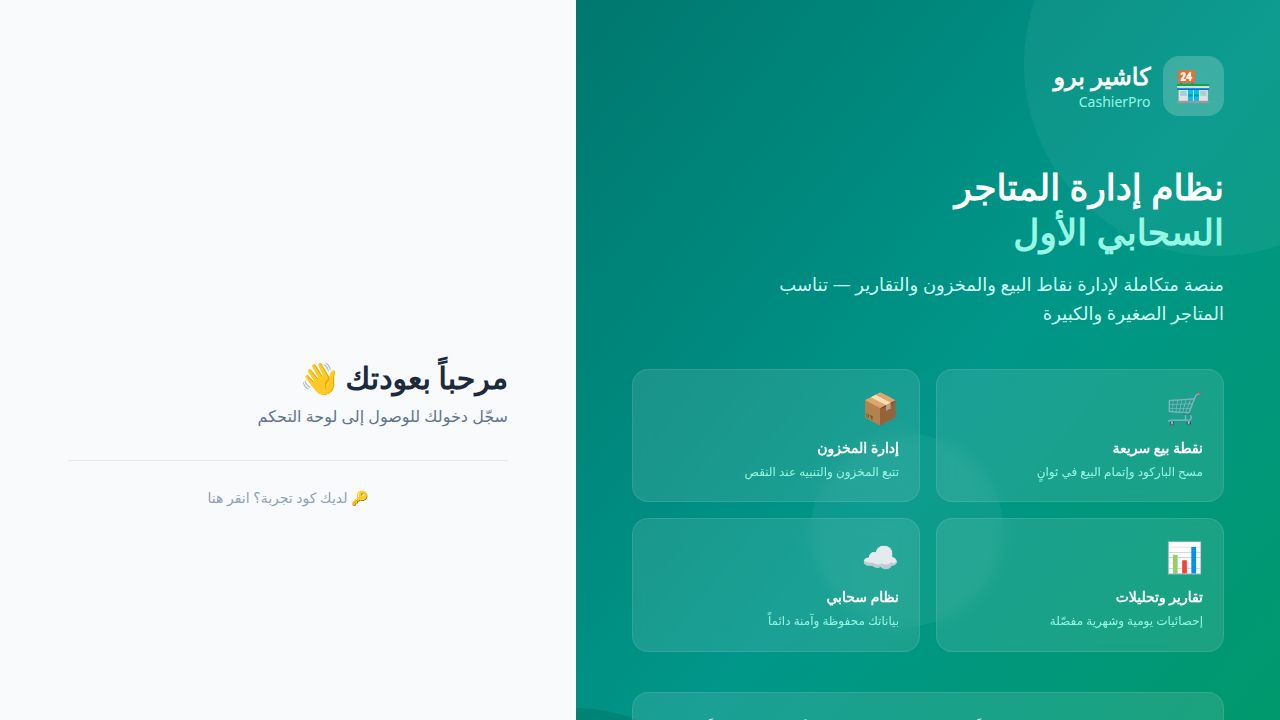
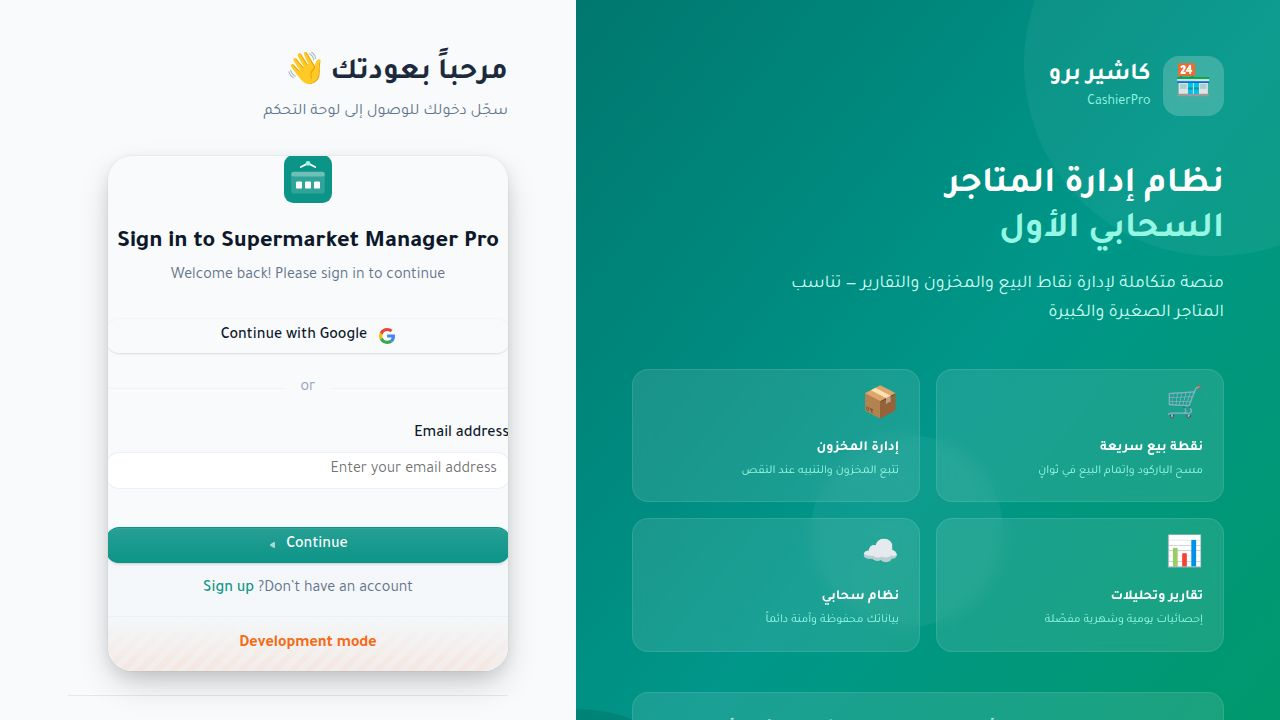
Task: Add Bengali language switcher to the POS interface
Bengali (বাংলা) translations and i18n wiring were already present in the codebase.
Two files were improved to ensure Bengali is prominent, correctly selected, and persists properly:

1. LanguageSwitcher.tsx — enhanced dropdown UX + hardened code matching
   - Added a `Check` icon (lucide-react) next to the active language entry so the
     current selection is visually obvious (previously only font weight/color changed).
   - Introduced `resolveBaseCode()` helper that normalises regional language codes
     (e.g. "en-US" → "en") using `i18n.resolvedLanguage` before looking up LANGUAGES.
     Prevents the dropdown falling back to wrong defaults when a regional locale is
     detected by the browser.
   - Widened dropdown from w-40 to w-44 for the check icon to fit cleanly.
   - Bengali (বাংলা) now appears in the list with a clear active-state indicator.

2. i18n/index.ts — apply persisted language attributes on startup
   - Added `i18n.on("initialized", ...)` callback that reads the detected/persisted
     language (localStorage key `pos-language`) and immediately sets
     `document.documentElement.dir` and `document.documentElement.lang`.
   - Also normalises via base code split so regional codes don't produce wrong dir.
   - Without this, a user returning with Bengali selected would get correct translated
     text but potentially stale document-level attributes until next interaction.

Persistence mechanism (pre-existing, verified):
[…]

diff --git a/artifacts/supermarket-pos/src/components/layout/LanguageSwitcher.tsx b/artifacts/supermarket-pos/src/components/layout/LanguageSwitcher.tsx
@@ -1,6 +1,6 @@
 import { useTranslation } from "react-i18next";
 import { LANGUAGES } from "@/i18n";
-import { Globe } from "lucide-react";
+import { Globe, Check } from "lucide-react";
 import {
   DropdownMenu,
   DropdownMenuContent,
@@ -9,10 +9,15 @@ import {
 } from "@/components/ui/dropdown-menu";
 import { Button } from "@/components/ui/button";
 
+function resolveBaseCode(language: string): string {
+  return language.split("-")[0];
+}
+
 export function LanguageSwitcher() {
   const { i18n } = useTranslation();
 
-  const current = LANGUAGES.find((l) => l.code === i18n.language) || LANGUAGES[0];
+  const activeCode = resolveBaseCode(i18n.resolvedLanguage ?? i18n.language);
+  const current = LANGUAGES.find((l) => l.code === activeCode) || LANGUAGES[0];
 
   const handleChange = (code: string) => {
     i18n.changeLanguage(code);
@@ -29,16 +34,20 @@ export function LanguageSwitcher() {
           <span className="truncate">{current.label}</span>
         </Button>
       </DropdownMenuTrigger>
-      <DropdownMenuContent align="end" side="top" className="w-40">
-        {LANGUAGES.map((lang) => (
-          <DropdownMenuItem
-            key={lang.code}
-            onClick={() => handleChange(lang.code)}
-            className={i18n.language === lang.code ? "font-semibold text-primary" : ""}
-          >
-            {lang.label}
-          </DropdownMenuItem>
-        ))}
+      <DropdownMenuContent align="end" side="top" className="w-44">
+        {LANGUAGES.map((lang) => {
+          const isActive = i18n.language === lang.code;
+          return (
+            <DropdownMenuItem
+              key={lang.code}
+              onClick={() => handleChange(lang.code)}
+              className="flex items-center justify-between gap-2 cursor-pointer"
+            >
+              <span className={isActive ? "font-semibold text-primary" : ""}>{lang.label}</span>
+              {isActive && <Check className="h-4 w-4 text-primary shrink-0" aria-label="selected" />}
+            </DropdownMenuItem>
+          );
+        })}
       </DropdownMenuContent>
     </DropdownMenu>
   );

diff --git a/artifacts/supermarket-pos/src/i18n/index.ts b/artifacts/supermarket-pos/src/i18n/index.ts
@@ -36,4 +36,11 @@ i18n
     interpolation: { escapeValue: false },
   });
 
+i18n.on("initialized", () => {
+  const baseCode = (i18n.resolvedLanguage ?? i18n.language).split("-")[0];
+  const lang = LANGUAGES.find((l) => l.code === baseCode);
+  document.documentElement.dir = lang?.dir ?? "rtl";
+  document.documentElement.lang = baseCode;
+});
+
 export default i18n;